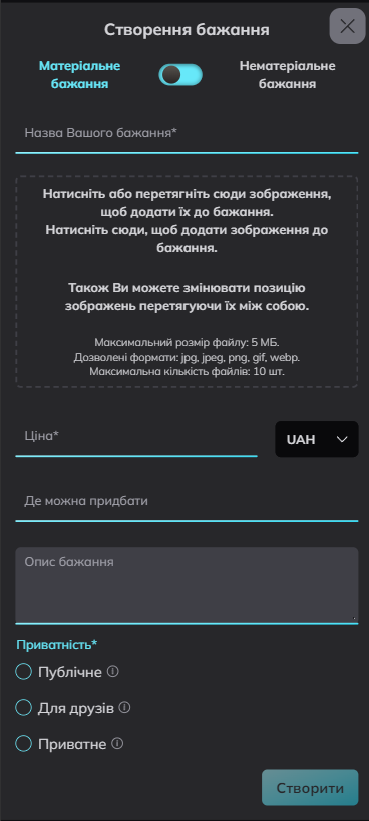
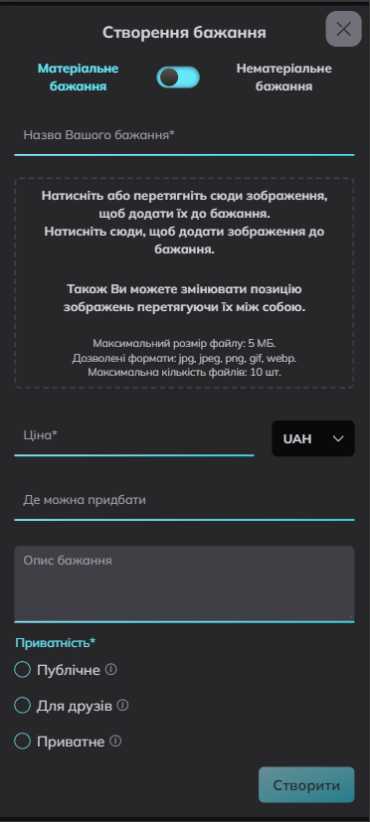
added link manifest to head in layout.tsx

diff --git a/src/app/[locale]/layout.tsx b/src/app/[locale]/layout.tsx
@@ -73,6 +73,7 @@ export default function RootLayout({
                     href="https://wish-hub.net/ru"
                 />
                 <link rel="icon" href="/favicon.svg" type="image/svg+xml" />
+                <link rel="manifest" href="/manifest.json" />
                 <script dangerouslySetInnerHTML={{ __html: setInitialTheme }} />
                 {/* Google Analytics */}
                 <Script
